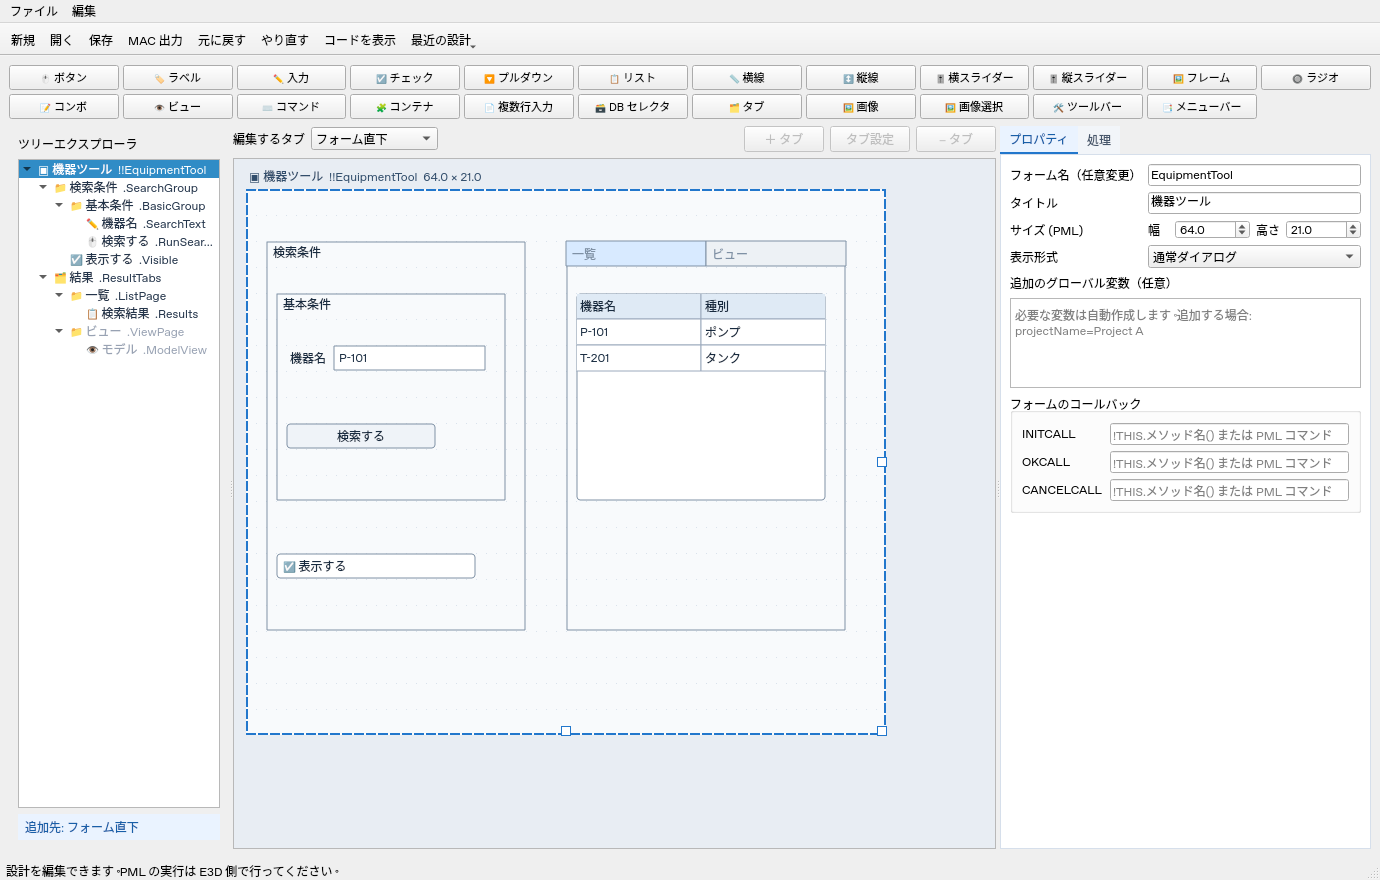
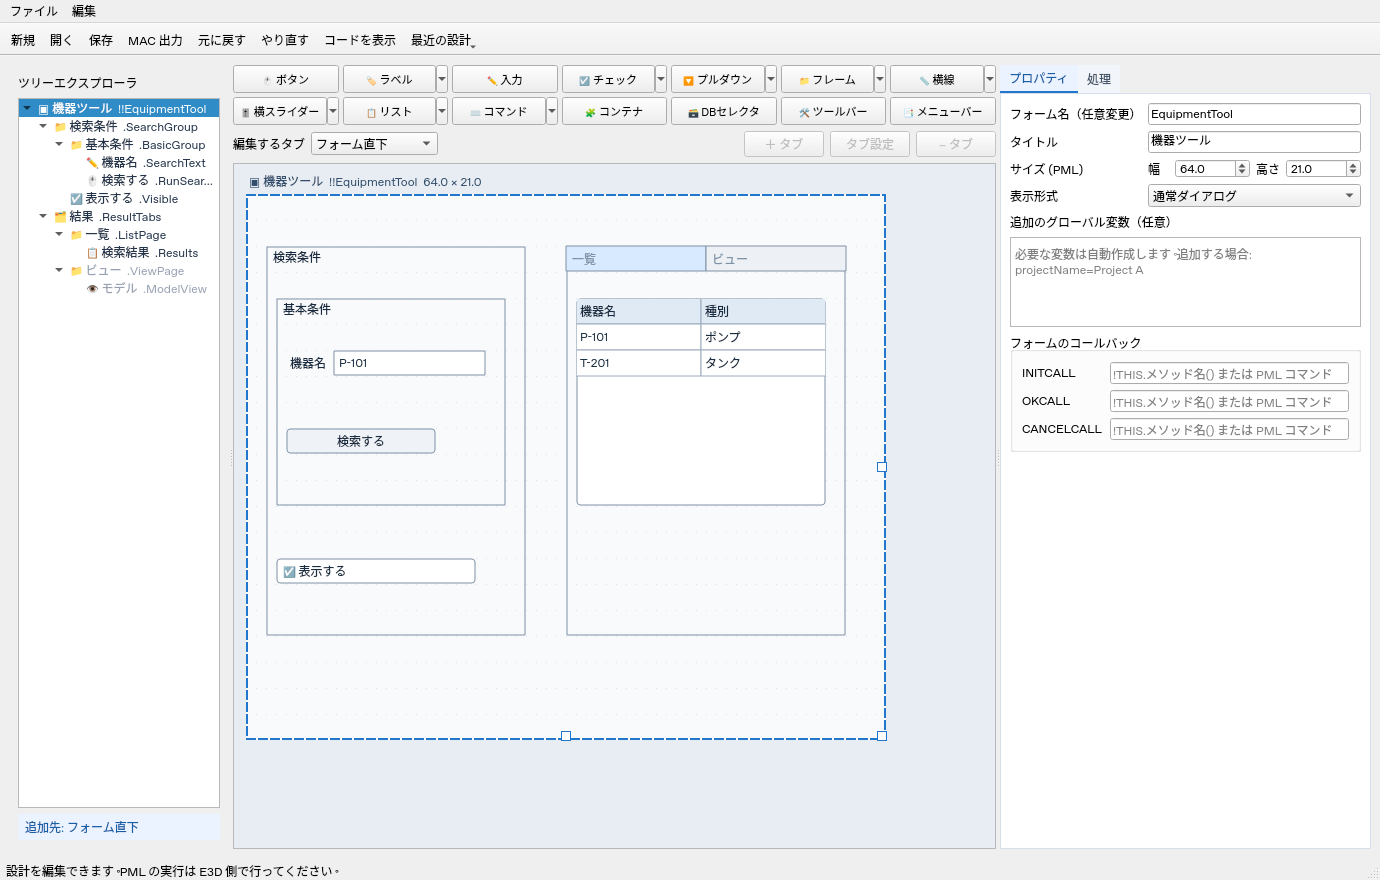
Group gadget choices above canvas and frame the menu preview

diff --git a/e3d_designer/app.py b/e3d_designer/app.py
@@ -12,7 +12,8 @@ from PySide6.QtWidgets import (QApplication, QMainWindow, QWidget, QVBoxLayout,
     QPlainTextEdit, QLabel, QSplitter, QGraphicsScene, QGraphicsView,
     QGraphicsObject, QGraphicsItem, QListWidget, QFileDialog, QMessageBox,
     QCheckBox, QMenuBar, QMenu, QGroupBox, QTableWidget, QHeaderView, QAbstractItemView,
-    QGridLayout, QTabBar, QDialog, QDialogButtonBox, QTabWidget, QInputDialog, QToolButton, QStackedWidget)
+    QGridLayout, QTabBar, QDialog, QFrame, QDialogButtonBox, QTabWidget, QInputDialog, QToolButton, QStackedWidget)
+from .palette import GadgetPalette
 from .explorer import ObjectExplorer
 from .form_item import FormItem
 from .highlighting import PmlHighlighter,COLORS
@@ -489,32 +490,11 @@ class Window(QMainWindow):
         columns = QSplitter();self.columns=columns
         left = QWidget();self.library_panel=left;ll = QVBoxLayout(left)
         ll.addWidget(QLabel('ツリーエクスプローラ'))
-        palette=QWidget();self.palette_panel=palette;palette_layout=QGridLayout(palette)
-        palette_layout.setContentsMargins(0,0,0,0);palette_layout.setSpacing(4)
-        palette.setFixedHeight(55)
-        self.palette_buttons = {}
-        entries = []
-        palette_order = [kind for kind in KINDS if kind != 'frame']
-        palette_order.insert(palette_order.index('rtoggle'),'frame')
-        for kind in palette_order:
-            if kind == 'line':
-                entries += [('line_horiz',kind,'HORIZ','📏','横線'),('line_vert',kind,'VERT','↕','縦線')]
-            elif kind == 'slider':
-                entries += [('slider_horiz',kind,'HORIZONTAL','🎚','横スライダー'),('slider_vert',kind,'VERTICAL','🎚','縦スライダー')]
-            else: entries.append((kind,kind,None,*PALETTE[kind]))
-        entries += [('tabset','frame','TABSET','🗂','タブ'),('image','paragraph','PIXMAP','🖼','画像'),('image_option','option','PIXMAP','🖼','画像選択'),('toolbar','frame','TOOLBAR','🛠','ツールバー'),('menubar',None,None,'📑','メニューバー')]
-        for index,(key,kind,direction,icon,label) in enumerate(entries):
-            b = QPushButton(f'{icon} {label}'); b.setFixedHeight(25);b.setAccessibleName(label)
-            b.setStyleSheet('font-size: 11px; padding: 1px 3px;')
-            if key == 'menubar':
-                b.setToolTip('別ウィンドウでメニューバーを編集します。')
-                b.clicked.connect(self.add_palette_menu)
-            else:
-                b.setToolTip(f'{label}: {LABELS[kind]} を追加' + (f' ({direction})' if direction else ''))
-                b.clicked.connect(lambda checked=False, k=kind, d=direction: self.add(k,d))
-            palette_layout.addWidget(b,index//12,index%12);self.palette_buttons[key]=b
-        for column in range(12):palette_layout.setColumnStretch(column,1)
-        outer.addWidget(palette)
+        self.palette_panel=GadgetPalette()
+        self.palette_panel.addRequested.connect(self.add)
+        self.palette_panel.menuRequested.connect(self.add_palette_menu)
+        self.palette_buttons=self.palette_panel.buttons
+        self.palette_actions=self.palette_panel.actions
         self.placement_hint=QLabel();self.placement_hint.setWordWrap(True)
         self.placement_hint.setStyleSheet('color: #185fa8; padding: 4px; background: #eaf3ff;')
         self.objects = ObjectExplorer(); self.objects.currentRowChanged.connect(self.choose_row)
@@ -538,9 +518,15 @@ class Window(QMainWindow):
                 action.triggered.connect(handler);widget.addAction(action)
                 self.edit_actions.append(action)
         self.view.setAlignment(Qt.AlignLeft | Qt.AlignTop)
-        preview = QWidget(); preview_layout = QVBoxLayout(preview); preview_layout.setContentsMargins(0,0,0,0)
+        preview = QWidget();self.canvas_panel=preview
+        preview_layout = QVBoxLayout(preview); preview_layout.setContentsMargins(0,0,0,0)
+        preview_layout.addWidget(self.palette_panel)
         self.preview_menu_bar = QMenuBar(); self.preview_menu_bar.setNativeMenuBar(False)
-        preview_layout.addWidget(self.preview_menu_bar)
+        self.preview_menu_frame=QFrame();self.preview_menu_frame.setObjectName("previewMenuFrame")
+        self.preview_menu_frame.setStyleSheet("QFrame#previewMenuFrame { border: 1px solid #7f91a5; border-radius: 3px; background: white; }")
+        self.preview_menu_frame.setToolTip("フォームのメニューバー")
+        menu_layout=QVBoxLayout(self.preview_menu_frame);menu_layout.setContentsMargins(3,2,3,2)
+        menu_layout.addWidget(self.preview_menu_bar);preview_layout.addWidget(self.preview_menu_frame)
         self.tab_editor=QWidget();tab_layout=QHBoxLayout(self.tab_editor);tab_layout.setContentsMargins(0,0,0,0)
         tab_layout.addWidget(QLabel('編集するタブ'))
         self.tabset_picker=QComboBox();self.tabset_picker.currentIndexChanged.connect(self.change_tabset)
@@ -1034,7 +1020,9 @@ class Window(QMainWindow):
             self.preview_menus.append(preview)
             self.preview_menu_bar.addMenu(preview)
             for item in menu.items: preview.addAction(item.label)
-        self.preview_menu_bar.setVisible(any(not menu.popup for menu in self.form.menus))
+        menu_visible=any(not menu.popup for menu in self.form.menus)
+        self.preview_menu_bar.setVisible(menu_visible)
+        self.preview_menu_frame.setVisible(menu_visible)
         if self.current_menu() is None:
             self.selected_menu = 0 if self.form.menus else None
         self.menu_list.clear()

diff --git a/tests/test_grouped_palette.py b/tests/test_grouped_palette.py
@@ -1,0 +1,71 @@
+import tempfile
+import unittest
+from pathlib import Path
+from PySide6.QtCore import Qt
+from PySide6.QtTest import QTest
+from PySide6.QtWidgets import QApplication
+from e3d_designer.app import Window
+from e3d_designer.model import Form,Menu,MenuItem
+from e3d_designer.palette import GadgetPalette
+
+
+class GroupedPaletteTests(unittest.TestCase):
+    @classmethod
+    def setUpClass(cls):cls.app=QApplication.instance() or QApplication([])
+    def setUp(self):
+        self.temp=tempfile.TemporaryDirectory();self.w=Window(settings_path=Path(self.temp.name)/'settings.json')
+        self.w.show();self.app.processEvents()
+    def tearDown(self):
+        self.app.clipboard().clear();self.w.dirty=False;self.w.close();self.app.processEvents();self.temp.cleanup()
+    def test_requested_groups_and_canvas_column_layout(self):
+        w=self.w
+        groups={'paragraph':['paragraph','image'],'toggle':['toggle','rtoggle'],
+            'option':['option','combo','image_option'],'frame':['frame','tabset'],
+            'line':['line_horiz','line_vert'],'slider':['slider_horiz','slider_vert'],
+            'list':['list','textpane'],'commandline':['commandline','view']}
+        self.assertEqual(len(w.palette_buttons),14)
+        for group,keys in groups.items():self.assertEqual([a.data() for a in w.palette_buttons[group].menu().actions()],keys)
+        self.assertTrue(w.canvas_panel.isAncestorOf(w.palette_panel))
+        self.assertEqual(w.palette_panel.width(),w.view.width())
+        self.assertLess(w.library_panel.mapTo(w,w.library_panel.rect().topLeft()).y(),w.view.mapTo(w,w.view.rect().topLeft()).y())
+        self.assertLess(w.inspector_tabs.mapTo(w,w.inspector_tabs.rect().topLeft()).y(),w.view.mapTo(w,w.view.rect().topLeft()).y())
+    def test_actual_menu_choice_and_repeat_button_add_same_variant(self):
+        w=self.w;button=w.palette_buttons['line'];menu=button.menu();action=w.palette_actions['line_vert']
+        menu.popup(button.mapToGlobal(button.rect().bottomLeft()));self.app.processEvents()
+        QTest.mouseClick(menu,Qt.LeftButton,Qt.NoModifier,menu.actionGeometry(action).center());self.app.processEvents()
+        self.assertEqual(w.form.gadgets[-1].orientation,'VERT');self.assertIs(button.defaultAction(),action)
+        QTest.mouseClick(button,Qt.LeftButton);self.app.processEvents()
+        self.assertEqual(len(w.form.gadgets),2);self.assertTrue(all(g.orientation=='VERT' for g in w.form.gadgets))
+        self.assertEqual(len(w.history),2);w.form.validate()
+        w.undo();w.undo();self.assertEqual(w.form.gadgets,[])
+    def test_each_choice_emits_correct_kind_and_direction_once(self):
+        palette=GadgetPalette();received=[];menus=[]
+        palette.addRequested.connect(lambda kind,direction:received.append((kind,direction)))
+        palette.menuRequested.connect(lambda:menus.append(True))
+        expected={'image':('paragraph','PIXMAP'),'rtoggle':('rtoggle',None),'combo':('combo',None),
+            'image_option':('option','PIXMAP'),'tabset':('frame','TABSET'),'line_vert':('line','VERT'),
+            'slider_vert':('slider','VERTICAL'),'textpane':('textpane',None),'view':('view',None)}
+        for key,pair in expected.items():
+            palette.actions[key].trigger();self.assertEqual(received[-1],pair)
+        self.assertEqual(len(received),len(expected));palette.actions['menubar'].trigger();self.assertEqual(menus,[True])
+        palette.close();palette.deleteLater()
+    def test_palette_wraps_without_clipping_in_narrow_canvas(self):
+        palette=GadgetPalette();palette.show()
+        for width in (724,420,240,120):
+            palette.resize(width,palette.height());self.app.processEvents()
+            for button in palette.buttons.values():
+                self.assertTrue(button.isVisible())
+                self.assertGreaterEqual(button.geometry().left(),0)
+                self.assertLessEqual(button.geometry().right(),palette.width())
+                self.assertLessEqual(button.geometry().bottom(),palette.height())
+        palette.close();palette.deleteLater()
+    def test_menubar_preview_is_framed_and_popup_only_menus_hide_it(self):
+        w=self.w;self.assertNotIn('border: 2px',w.palette_buttons['menubar'].styleSheet())
+        w.form=Form(menus=[Menu(name='Tools',items=[MenuItem(label='Run')])]);w.refresh();self.app.processEvents()
+        self.assertTrue(w.preview_menu_frame.isVisible())
+        self.assertTrue(w.preview_menu_bar.isVisible())
+        self.assertGreater(w.preview_menu_bar.height(),15)
+        self.assertEqual([a.text() for a in w.preview_menu_bar.actions()],["Tools"])
+        self.assertTrue(w.preview_menu_frame.isAncestorOf(w.preview_menu_bar))
+        self.assertIn('border: 1px',w.preview_menu_frame.styleSheet())
+        w.form.menus[0].popup=True;w.refresh();self.assertFalse(w.preview_menu_frame.isVisible())

diff --git a/e3d_designer/palette.py b/e3d_designer/palette.py
@@ -1,0 +1,69 @@
+"""Compact split buttons: choose a variant once, click again to repeat it."""
+from math import ceil
+from PySide6.QtCore import QSize,Signal
+from PySide6.QtGui import QAction
+from PySide6.QtWidgets import QWidget,QToolButton,QMenu,QGridLayout,QLayout,QSizePolicy
+
+GROUPS = (
+    ('button',(('button','button',None,'🖱','ボタン'),)),
+    ('paragraph',(('paragraph','paragraph',None,'🏷','ラベル'),('image','paragraph','PIXMAP','🖼','画像'))),
+    ('text',(('text','text',None,'✏','入力'),)),
+    ('toggle',(('toggle','toggle',None,'☑','チェック'),('rtoggle','rtoggle',None,'🔘','ラジオ'))),
+    ('option',(('option','option',None,'🔽','プルダウン'),('combo','combo',None,'📝','コンボ'),('image_option','option','PIXMAP','🖼','画像選択'))),
+    ('frame',(('frame','frame',None,'📁','フレーム'),('tabset','frame','TABSET','🗂','タブ'))),
+    ('line',(('line_horiz','line','HORIZ','📏','横線'),('line_vert','line','VERT','↕','縦線'))),
+    ('slider',(('slider_horiz','slider','HORIZONTAL','🎚','横スライダー'),('slider_vert','slider','VERTICAL','🎚','縦スライダー'))),
+    ('list',(('list','list',None,'📋','リスト'),('textpane','textpane',None,'📄','複数行'))),
+    ('commandline',(('commandline','commandline',None,'⌨','コマンド'),('view','view',None,'👁','ビュー'))),
+    ('container',(('container','container',None,'🧩','コンテナ'),)),
+    ('selector',(('selector','selector',None,'🗃','DBセレクタ'),)),
+    ('toolbar',(('toolbar','frame','TOOLBAR','🛠','ツールバー'),)),
+    ('menubar',(('menubar',None,None,'📑','メニューバー'),)),
+)
+
+
+class GadgetPalette(QWidget):
+    addRequested=Signal(str,object)
+    menuRequested=Signal()
+    def __init__(self,parent=None):
+        super().__init__(parent)
+        self.buttons={};self.actions={};self._columns=0
+        self.grid=QGridLayout(self);self.grid.setContentsMargins(0,0,0,0);self.grid.setSpacing(4)
+        self.grid.setSizeConstraint(QLayout.SetNoConstraint)
+        for group,variants in GROUPS:
+            button=QToolButton(self);button.setFixedHeight(28)
+            button.setSizePolicy(QSizePolicy.Expanding,QSizePolicy.Fixed)
+            button.setMinimumWidth(0)
+            button.setStyleSheet('font-size: 11px; padding: 1px 3px;')
+            title=' / '.join(entry[4] for entry in variants)
+            button.setAccessibleName(title)
+            button.setToolTip(title+'：矢印で種類を選択、ボタン本体で同じ種類を追加' if len(variants)>1 else title+'を編集' if group=='menubar' else title+'を追加')
+            menu=QMenu(button) if len(variants)>1 else None
+            if menu:
+                button.setMenu(menu);button.setPopupMode(QToolButton.MenuButtonPopup)
+            for key,kind,direction,icon,label in variants:
+                action=QAction(f'{icon} {label}',button);action.setData(key)
+                action.setToolTip(title+'：矢印で種類を選択、ボタン本体で同じ種類を追加' if menu else title+'を編集' if group=='menubar' else title+'を追加')
+                action.triggered.connect(lambda checked=False,b=button,a=action,k=kind,d=direction:self.activate(b,a,k,d))
+                self.actions[key]=action
+                if menu:menu.addAction(action)
+            button.setDefaultAction(self.actions[variants[0][0]])
+            self.buttons[group]=button
+        self.reflow(7)
+    def activate(self,button,action,kind,direction):
+        button.setDefaultAction(action)
+        if kind is None:self.menuRequested.emit()
+        else:self.addRequested.emit(kind,direction)
+    def sizeHint(self):return QSize(724,60)
+    def minimumSizeHint(self):return QSize(104,60)
+    def resizeEvent(self,event):
+        self.reflow(max(1,min(7,(event.size().width()+4)//104)))
+        super().resizeEvent(event)
+    def reflow(self,columns):
+        if columns==self._columns:return
+        for index in range(self.grid.count()-1,-1,-1):self.grid.takeAt(index)
+        for column in range(max(7,self._columns)):self.grid.setColumnStretch(column,0)
+        for index,button in enumerate(self.buttons.values()):self.grid.addWidget(button,index//columns,index%columns)
+        for column in range(columns):self.grid.setColumnStretch(column,1)
+        self._columns=columns
+        self.setFixedHeight(ceil(len(self.buttons)/columns)*32-4)

diff --git a/tests/test_extra_features.py b/tests/test_extra_features.py
@@ -97,7 +97,7 @@ class ExtraGuiTests(unittest.TestCase):
         self.assertEqual(self.w.form.menus,[])
 
     def test_image_picker_preview_save_and_undo(self):
-        self.w.palette_buttons['image'].click();self.assertEqual(self.w.form.gadgets[0].display_mode,'PIXMAP')
+        self.w.palette_actions['image'].trigger();self.assertEqual(self.w.form.gadgets[0].display_mode,'PIXMAP')
         with tempfile.TemporaryDirectory() as folder:
             filename=Path(folder)/'sample.png';pixmap=QPixmap(20,10);pixmap.fill(QColor('red'));pixmap.save(str(filename))
             with patch('e3d_designer.app.QFileDialog.getOpenFileName',return_value=(str(filename),'')): self.w.browse_image.click()
@@ -108,7 +108,7 @@ class ExtraGuiTests(unittest.TestCase):
         self.w.undo();self.assertEqual(self.w.form.gadgets[0].pixmap_path,'')
 
     def test_image_option_and_textpane_editor(self):
-        self.w.palette_buttons['image_option'].click();self.w.choices.setPlainText('/C:/red.gif\n/C:/yellow.gif')
+        self.w.palette_actions['image_option'].trigger();self.w.choices.setPlainText('/C:/red.gif\n/C:/yellow.gif')
         self.w.item_values.setPlainText('RED\nYELLOW');self.assertIn(canonical_pml('!this.option1.rtext'),self.w.code.toPlainText())
         with patch('e3d_designer.app.QFileDialog.getOpenFileNames',return_value=(['/C:/blue.gif'],'')): self.w.browse_image.click()
         self.assertEqual(self.w.form.gadgets[0].items,['/C:/red.gif','/C:/yellow.gif','/C:/blue.gif'])
@@ -152,7 +152,7 @@ class ExtraGuiTests(unittest.TestCase):
 
     def test_toolbar_image_height_and_full_width_noop(self):
         self.w.docking.setCurrentIndex(5);self.w.palette_buttons['toolbar'].click()
-        self.w.palette_buttons['image_option'].click();self.w.form.validate()
+        self.w.palette_actions['image_option'].trigger();self.w.form.validate()
         self.assertEqual(self.w.form.gadgets[1].height,78)
         self.w.fields['width'].setValue(690);self.w.form.validate()
         before=self.w.form.dumps();history=len(self.w.history);self.w.dirty=False

diff --git a/tests/test_workflow_ui.py b/tests/test_workflow_ui.py
@@ -49,7 +49,7 @@ class WorkflowUiTests(unittest.TestCase):
         w.fname.selectAll();QTest.keyClicks(w.fname,'DEMO')
         w.ftitle.selectAll();QTest.keyClicks(w.ftitle,'Equipment')
         w.set_workflow('layout')
-        QTest.mouseClick(w.palette_buttons['tabset'],Qt.LeftButton)
+        w.palette_actions['tabset'].trigger()
         tabs=next(g for g in w.form.gadgets if g.frame_style=='TABSET')
         self.assertEqual(len(tabs.tabs),2)
         QTest.mouseClick(w.palette_buttons['text'],Qt.LeftButton)
@@ -78,7 +78,7 @@ class WorkflowUiTests(unittest.TestCase):
         w.set_workflow('layout');self.assertTrue(w.inspector_tabs.isVisible())
 
     def test_tab_palette_is_one_undo_and_each_page_has_own_parts(self):
-        w=self.w;before=w.form.dumps();w.palette_buttons['tabset'].click()
+        w=self.w;before=w.form.dumps();w.palette_actions['tabset'].trigger()
         self.assertEqual(len(w.history),1);tabs=w.form.gadgets[0]
         w.form.validate();self.assertEqual(len(tabs.tabs),2)
         w.add('button');first=w.form.gadgets[w.selected]
@@ -92,7 +92,7 @@ class WorkflowUiTests(unittest.TestCase):
     def test_tab_palette_rejects_no_space_without_mutation(self):
         w=self.w;w.form=Form(width=4,height=1,gadgets=[Gadget(kind='frame',name='frame',width=4,height=1,x=0,y=0)])
         w.selected=0;w.refresh();before=w.form.dumps()
-        w.palette_buttons['tabset'].click()
+        w.palette_actions['tabset'].trigger()
         self.assertEqual(w.form.dumps(),before);self.assertEqual(w.history,[])
         self.assertIn('空きがありません',w.statusBar().currentMessage())
 

diff --git a/tests/test_tree_explorer.py b/tests/test_tree_explorer.py
@@ -34,11 +34,12 @@ class ExplorerTests(unittest.TestCase):
         self.w.objects.move_item(index,'Group');self.app.processEvents();self.assertEqual(self.w.form.dumps(),original)
         self.w.objects.setCurrentItem(self.w.objects.root);self.app.processEvents();self.w.add('button')
         self.assertEqual(self.w.form.gadgets[self.w.selected].parent,'')
-    def test_palette_above_explorer_and_folder_state_preserved(self):
+    def test_palette_above_canvas_and_folder_state_preserved(self):
         self.load(Form(gadgets=[Gadget(kind='frame',name='Group',width=30,height=10),Gadget(name='Run',parent='Group')]))
         self.assertFalse(self.w.library_panel.isAncestorOf(self.w.palette_panel))
-        self.assertLessEqual(self.w.palette_panel.height(),60)
-        self.assertTrue(all(b.isVisible() and b.height()<=25 for b in self.w.palette_buttons.values()))
+        self.assertTrue(self.w.canvas_panel.isAncestorOf(self.w.palette_panel))
+        self.assertEqual(self.w.palette_panel.width(),self.w.view.width())
+        self.assertTrue(all(b.isVisible() and b.height()<=28 for b in self.w.palette_buttons.values()))
         self.node('Group').setExpanded(False);self.w.refresh();self.assertFalse(self.node('Group').isExpanded())
         self.w.objects.setCurrentItem(self.w.objects.root);self.app.processEvents();self.assertIsNone(self.w.selected)
         self.assertEqual(self.w.selection_stack.currentIndex(),0)

diff --git a/tests/test_designer.py b/tests/test_designer.py
@@ -829,7 +829,7 @@ class GuiTests(unittest.TestCase):
         for key,kind,direction in [('line_horiz','line','HORIZ'),('line_vert','line','VERT'),
                                    ('slider_horiz','slider','HORIZONTAL'),('slider_vert','slider','VERTICAL')]:
             self.w.selected=None;self.w.refresh()
-            QTest.mouseClick(self.w.palette_buttons[key],Qt.LeftButton)
+            self.w.palette_actions[key].trigger()
             g=self.w.form.gadgets[-1]
             self.assertEqual(g.kind,kind)
             self.assertEqual(g.orientation if kind == 'line' else g.slider_orientation,direction)

diff --git a/docs/audit-latest.md b/docs/audit-latest.md
@@ -1,3 +1,14 @@
+# 選択式の追加ボタンとキャンバス列の配置（2026-10-06）
+
+- 追加ボタンを14個に集約。ラベル／画像、チェック／ラジオ、プルダウン／コンボ／画像選択、フレーム／タブ、横線／縦線、横／縦スライダー、リスト／複数行、コマンド／ビューを選択メニューにまとめました。ボタン、入力、コンテナ、DBセレクタ、ツールバー、メニューバー編集は独立したボタンです。
+- 矢印のメニューから選ぶとその種類を1回追加し、ボタン本体は最後に選んだ種類を繰り返し追加します。全23種類を選択可能なまま保持しています。
+- パレットをキャンバス列の上部へ移動。キャンバスの幅に合わせて折り返し、ツリーと右側プロパティは上端から表示します。スクロールを使わず追加ボタンを表示します。
+- 枠を付ける対象は、追加したメニューバーのプレビュー。編集ボタンには専用の枠を付けません。非ポップアップのメニューがある場合に枠とメニュー本体を一緒に表示し、メニュー項目を実際に描画することを画面確認しました。
+- 回帰テスト5件を追加。グループ構成、実際のメニュー選択と繰り返し追加・Undo、種類／向きの通知、狭い幅での配置、メニューバー本体と枠の表示を検証。既存テストを新しい選択式の操作へ更新し、全250件が成功しました。
+- [メニューバーを追加した画面](current-ui/grouped-palette.png)。Windows EXE・E3D実機は未検証です。
+
+---
+
 # 各タブページFRAMEの選択枠（2026-10-06）
 
 - 対象をTABSET配下の各タブページFRAMEとして確認。ページの内部座標は(0, 0)、画面位置はTABSETと祖先FRAMEの座標の加算です。原点以外のTABSET、さらに外側のFRAME、座標の小数値、保存・再読込でも変換が行われることを確認しました。
